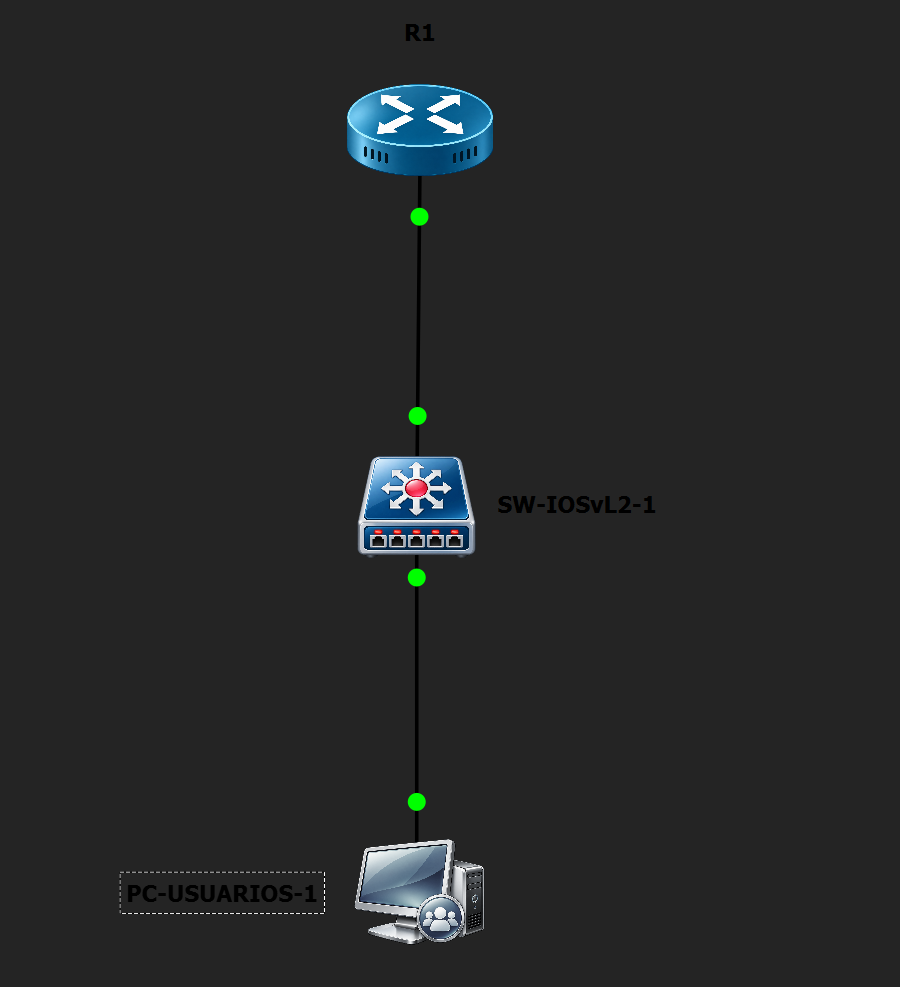
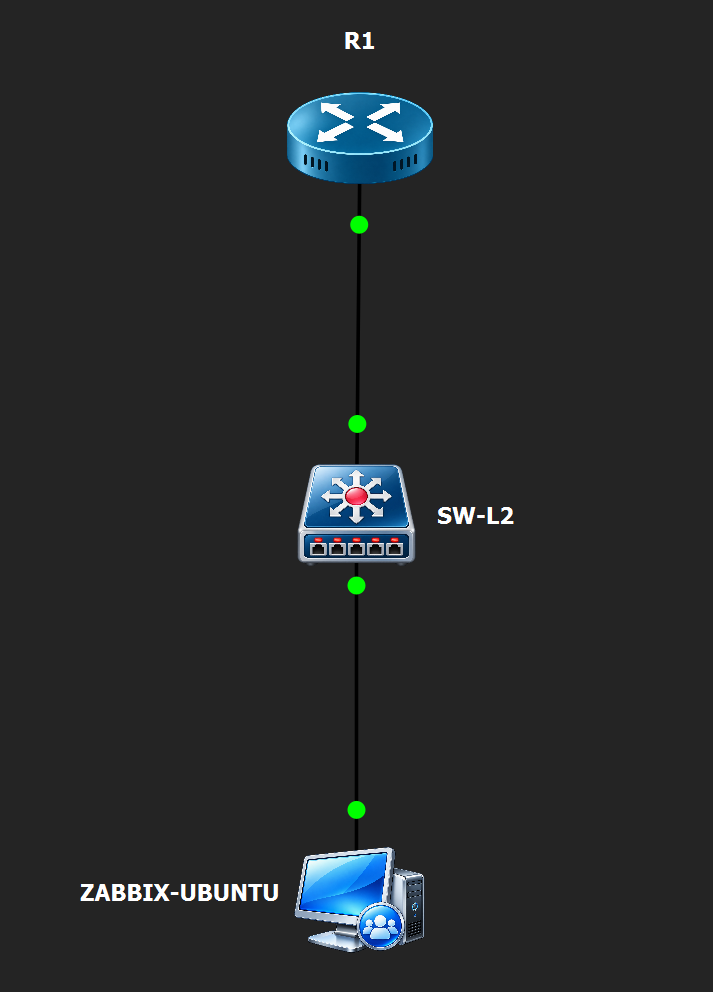
Actualizar imagen y nombres de nodos de la topología

Changed region(s): [[0.0926, 0.0304, 0.7405, 0.9726]]

diff --git a/README.md b/README.md
@@ -10,13 +10,13 @@
 
 ## Propósito del laboratorio
 
-Configurar una LAN en la que R1 entregue por DHCP la dirección de Ubuntu Desktop y Zabbix consulte el estado del router y de un switch multicapa. Las consultas usan SNMPv2c con una comunidad de solo lectura. Una lista de acceso permite el sondeo únicamente desde la IP que recibe Ubuntu.
+Configurar una LAN en la que R1 entregue por DHCP la dirección de Ubuntu Desktop y Zabbix consulte el estado del router y del switch IOSvL2. Las consultas usan SNMPv2c con una comunidad de solo lectura. Una lista de acceso permite el sondeo únicamente desde la IP que recibe Ubuntu.
 
 El resultado esperado es observar en Zabbix valores recientes de ambos equipos, además de demostrar el origen de la IP del servidor y la restricción aplicada a SNMP.
 
 ## Topología y direccionamiento
 
-La topología operativa conecta R1 con Switch y Ubuntu Desktop con Switch. En GNS3, la máquina Ubuntu aparece como **PC-USUARIOS-1**.
+La topología operativa conecta R1 con el switch y Ubuntu Desktop con el switch. En GNS3, los nodos aparecen como **R1**, **SW-L2** y **ZABBIX-UBUNTU**. El hostname IOS del switch es **Switch**.
 
 ![Topología real del laboratorio en GNS3](evidencias/topologia-gns3.png)
 
@@ -25,8 +25,8 @@ La topología operativa conecta R1 con Switch y Ubuntu Desktop con Switch. En GN
 | Equipo e interfaz | Dirección | Función |
 |---|---|---|
 | R1 Fa0/0 · Cisco c7200 | 10.21.39.129/29 | Puerta de enlace, servidor DHCP y agente SNMP |
-| Switch Vlan1 · Cisco IOSvL2 multicapa | 10.21.39.130/29 | Dirección de gestión y agente SNMP |
-| Ubuntu Desktop ens33 · PC-USUARIOS-1 | 10.21.39.131/29 por DHCP | Servidor Zabbix y gestor SNMP |
+| Switch Vlan1 · Cisco IOSvL2 (nodo SW-L2) | 10.21.39.130/29 | Dirección de gestión y agente SNMP |
+| Ubuntu Desktop ens33 · ZABBIX-UBUNTU | 10.21.39.131/29 por DHCP | Servidor Zabbix y gestor SNMP |
 
 La red **10.21.39.128/29** utiliza los octetos 21 y 39 de la matrícula. Su máscara es **255.255.255.248**. R1 Fa0/0 se conecta con Switch Gi0/0. El enlace quedó a **100 Mb/s y full-duplex** en ambos extremos. Ubuntu llega a R1 y Switch por la misma LAN.
 

diff --git a/evidencias/README.md b/evidencias/README.md
@@ -2,7 +2,7 @@
 
 ## Topología y direccionamiento
 
-El proyecto GNS3 conecta R1 con Switch y Ubuntu Desktop con el switch.
+El proyecto GNS3 conecta los nodos **R1**, **SW-L2** y **ZABBIX-UBUNTU**. Dentro de IOS y Zabbix, el switch se identifica como **Switch**.
 
 ![Topología en GNS3](topologia-gns3.png)
 
